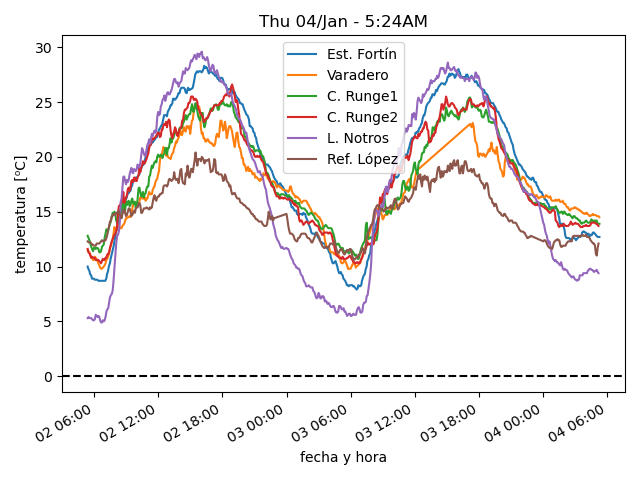
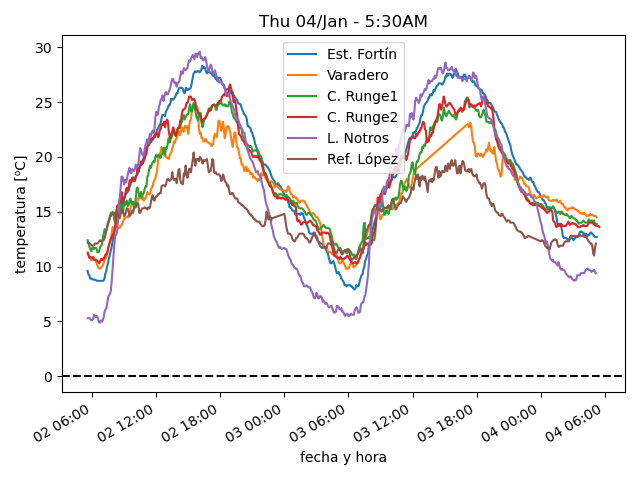
actualiza datos

diff --git a/estaciones/estacion4.html b/estaciones/estacion4.html
@@ -18,32 +18,32 @@
     </tr>
     <tr>
      <td class="stats_data">
-      5:09AM
+      5:29AM
      </td>
     </tr>
     <tr>
      <td class="stats_data">
-      13.7
+      13.6
      </td>
     </tr>
     <tr>
      <td class="stats_data">
-      5.8
+      5.7
      </td>
     </tr>
     <tr>
      <td class="stats_data">
-      58.7
+      58.9
      </td>
     </tr>
     <tr>
      <td class="stats_data">
-      1016.93
+      1017.24
      </td>
     </tr>
     <tr>
      <td class="stats_data">
-      1.5/3.0 SSW
+      1.4/2.2 SSW
      </td>
     </tr>
     <tr>
